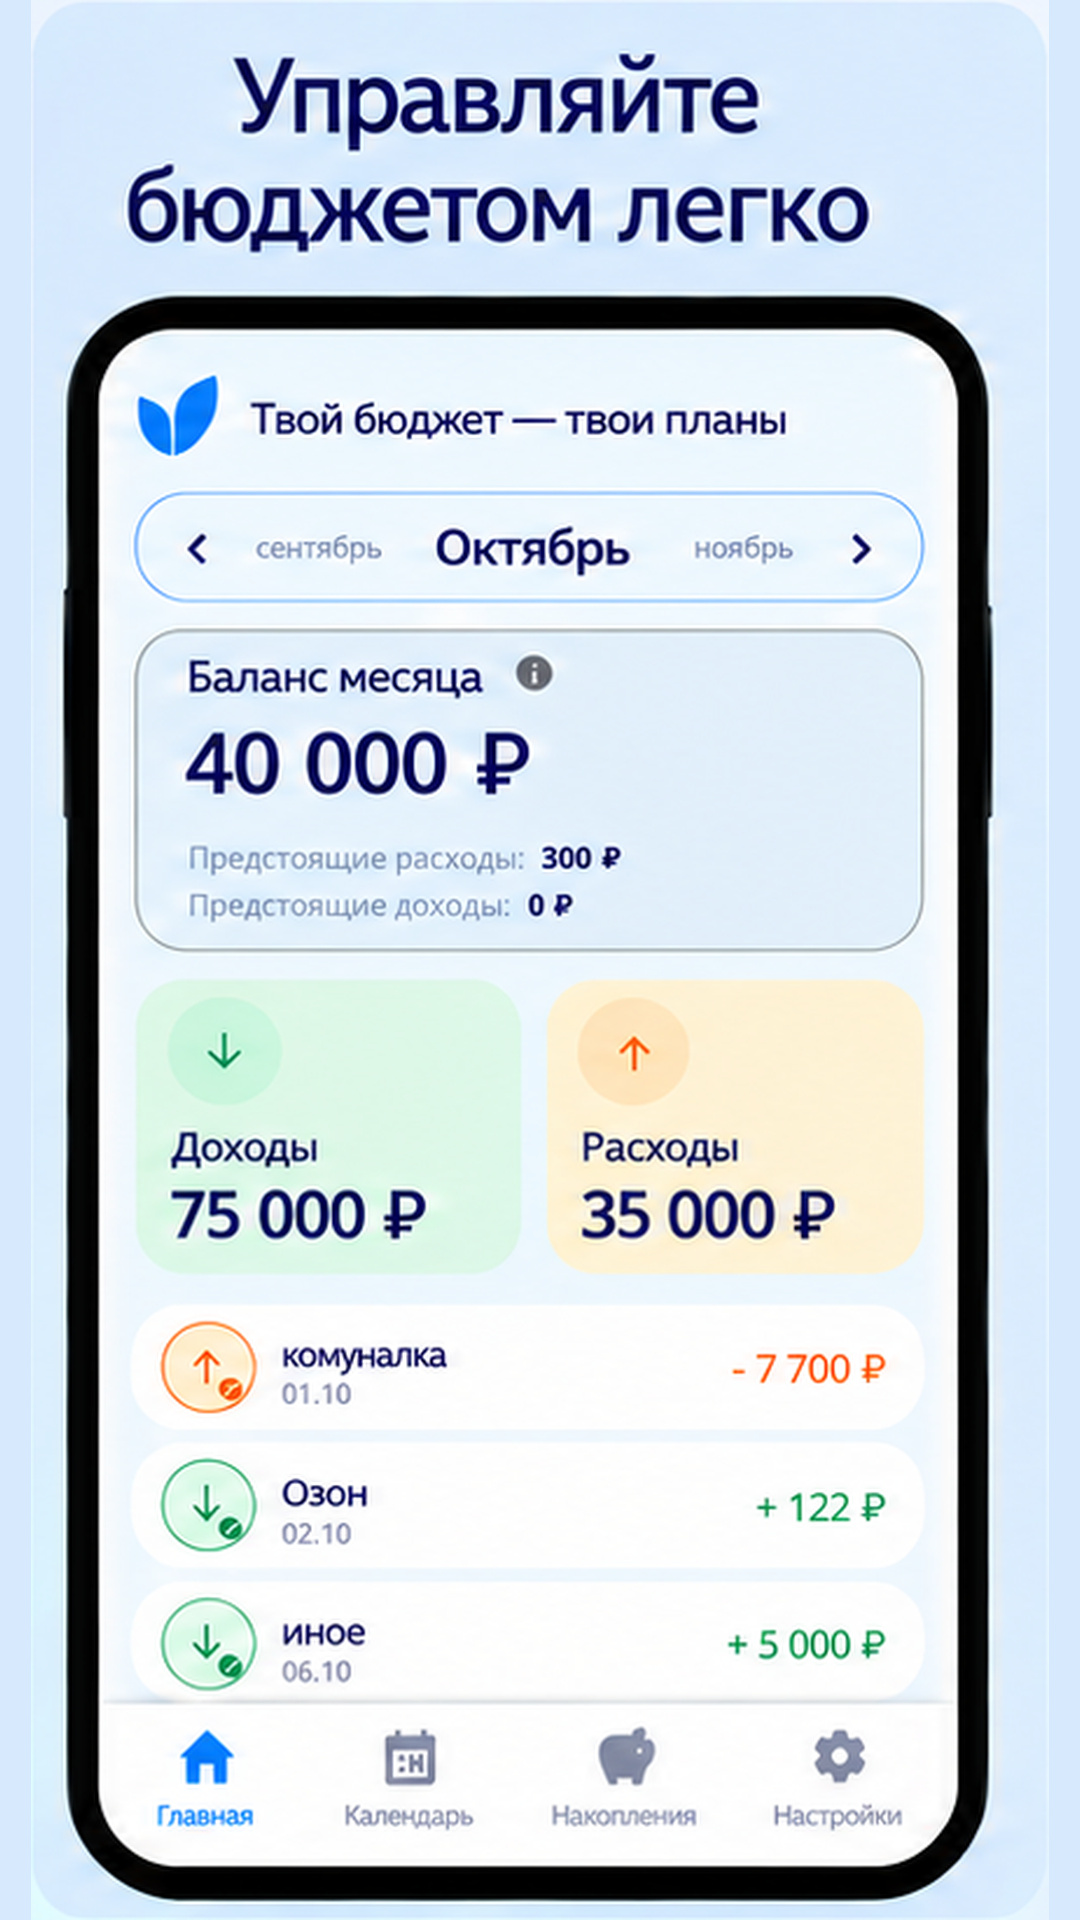
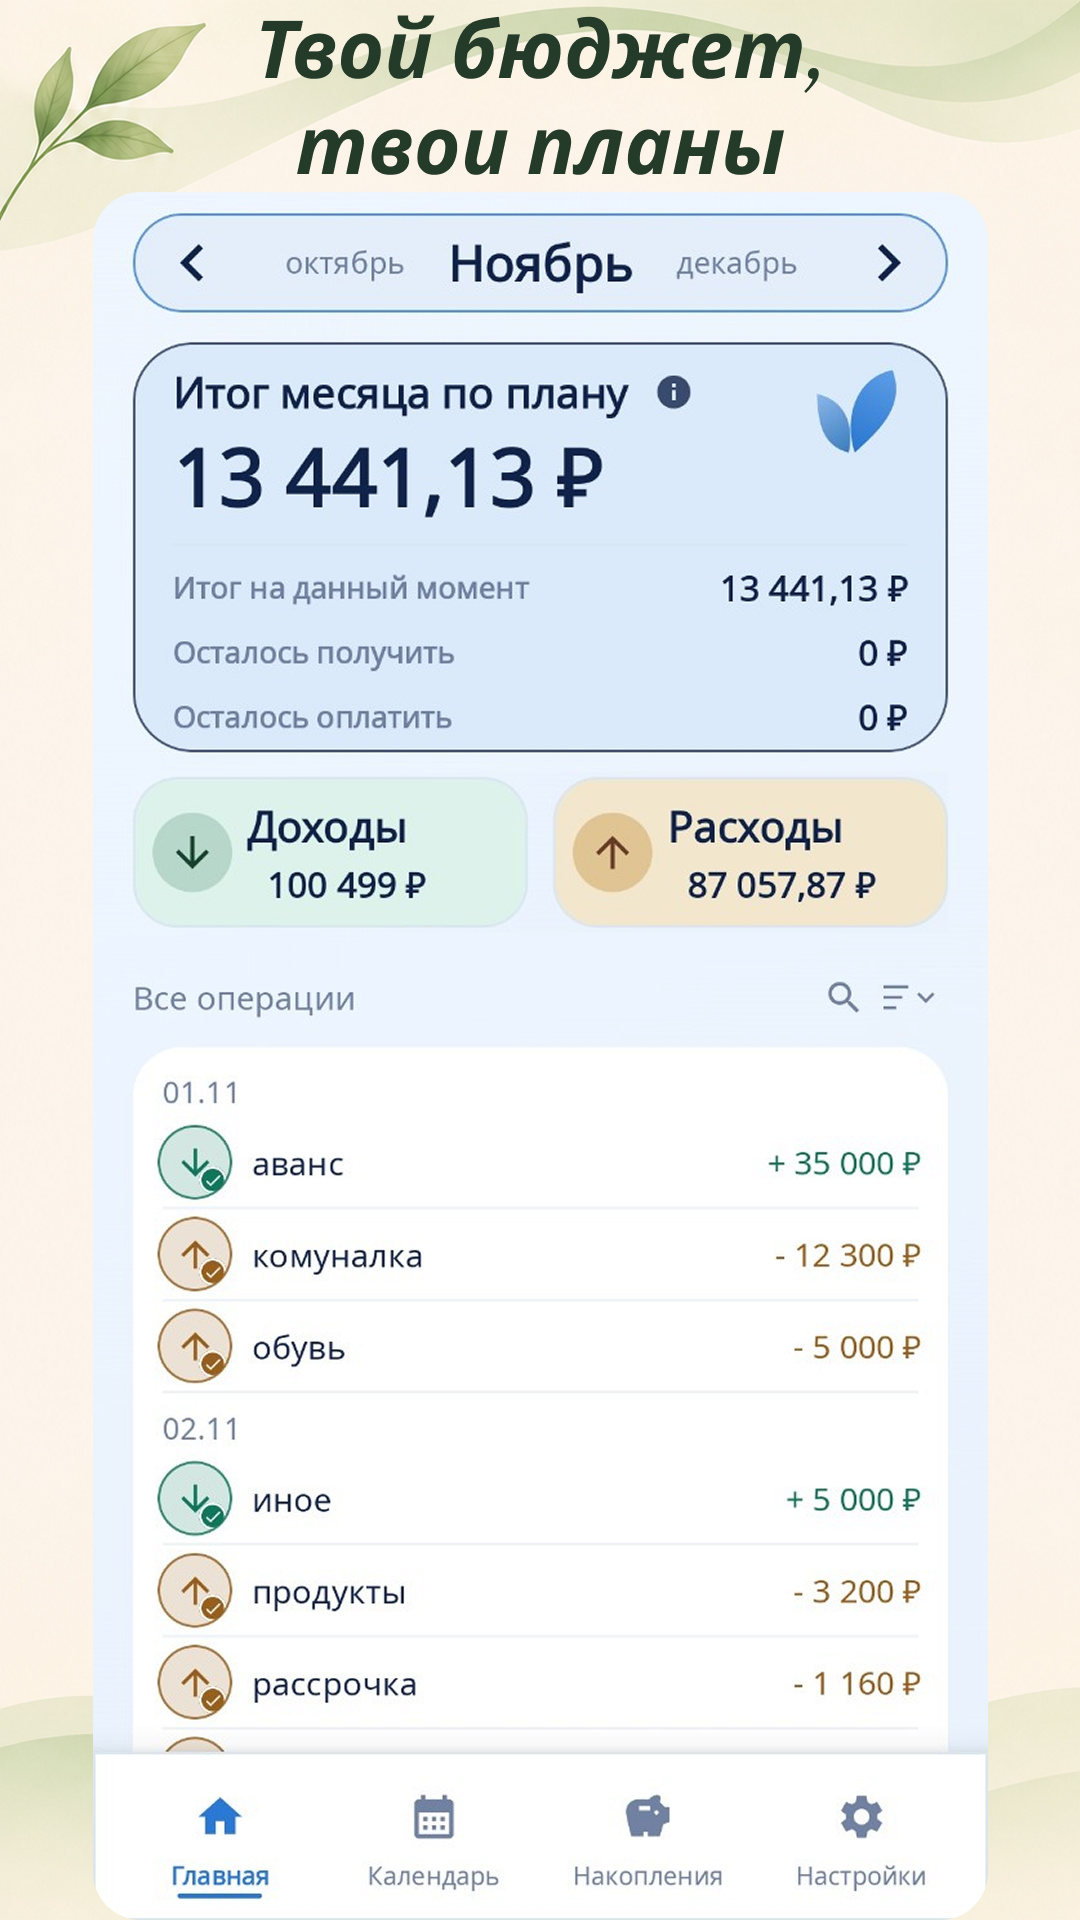
Refresh the four expense app gallery screenshots

diff --git a/apps/plan-rashodov/index.html b/apps/plan-rashodov/index.html
@@ -60,8 +60,8 @@
 <div class="screenshots">
 
 <figure>
-<a class="screenshot-link" href="../../assets/plan-rashodov-new-1.jpg" aria-label="Управляйте бюджетом легко — увеличить изображение">
-<img src="../../assets/plan-rashodov-new-1.jpg" alt="Управляйте бюджетом легко" loading="lazy" width="1080" height="1920">
+<a class="screenshot-link" href="../../assets/plan-rashodov-new-1.jpg?v=november" aria-label="Твой бюджет, твои планы — увеличить изображение">
+<img src="../../assets/plan-rashodov-new-1.jpg?v=november" alt="Твой бюджет, твои планы" loading="lazy" width="1080" height="1920">
 <span class="zoom-hint" aria-hidden="true">
 <svg viewBox="0 0 24 24" fill="none" stroke="currentColor" stroke-width="1.8">
 <circle cx="10" cy="10" r="6"/>
@@ -72,8 +72,8 @@
 </figure>
 
 <figure>
-<a class="screenshot-link" href="../../assets/plan-rashodov-new-2.jpg" aria-label="Не забывайте о платежах — увеличить изображение">
-<img src="../../assets/plan-rashodov-new-2.jpg" alt="Не забывайте о платежах" loading="lazy" width="1080" height="1920">
+<a class="screenshot-link" href="../../assets/plan-rashodov-new-2.jpg?v=november" aria-label="Все твои записи по дням — увеличить изображение">
+<img src="../../assets/plan-rashodov-new-2.jpg?v=november" alt="Все твои записи по дням" loading="lazy" width="1080" height="1920">
 <span class="zoom-hint" aria-hidden="true">
 <svg viewBox="0 0 24 24" fill="none" stroke="currentColor" stroke-width="1.8">
 <circle cx="10" cy="10" r="6"/>
@@ -84,8 +84,8 @@
 </figure>
 
 <figure>
-<a class="screenshot-link" href="../../assets/plan-rashodov-new-3.jpg" aria-label="Копите на важные цели — увеличить изображение">
-<img src="../../assets/plan-rashodov-new-3.jpg" alt="Копите на важные цели" loading="lazy" width="1080" height="1920">
+<a class="screenshot-link" href="../../assets/plan-rashodov-new-3.jpg?v=november" aria-label="Копи на мечты и не только — увеличить изображение">
+<img src="../../assets/plan-rashodov-new-3.jpg?v=november" alt="Копи на мечты и не только" loading="lazy" width="1080" height="1920">
 <span class="zoom-hint" aria-hidden="true">
 <svg viewBox="0 0 24 24" fill="none" stroke="currentColor" stroke-width="1.8">
 <circle cx="10" cy="10" r="6"/>
@@ -96,8 +96,8 @@
 </figure>
 
 <figure>
-<a class="screenshot-link" href="../../assets/plan-rashodov-new-4.jpg" aria-label="Создавайте резервные копии — увеличить изображение">
-<img src="../../assets/plan-rashodov-new-4.jpg" alt="Создавайте резервные копии" loading="lazy" width="1080" height="1920">
+<a class="screenshot-link" href="../../assets/plan-rashodov-new-4.jpg?v=november" aria-label="Изменяй стиль в один клик — увеличить изображение">
+<img src="../../assets/plan-rashodov-new-4.jpg?v=november" alt="Изменяй стиль в один клик" loading="lazy" width="1080" height="1920">
 <span class="zoom-hint" aria-hidden="true">
 <svg viewBox="0 0 24 24" fill="none" stroke="currentColor" stroke-width="1.8">
 <circle cx="10" cy="10" r="6"/>
